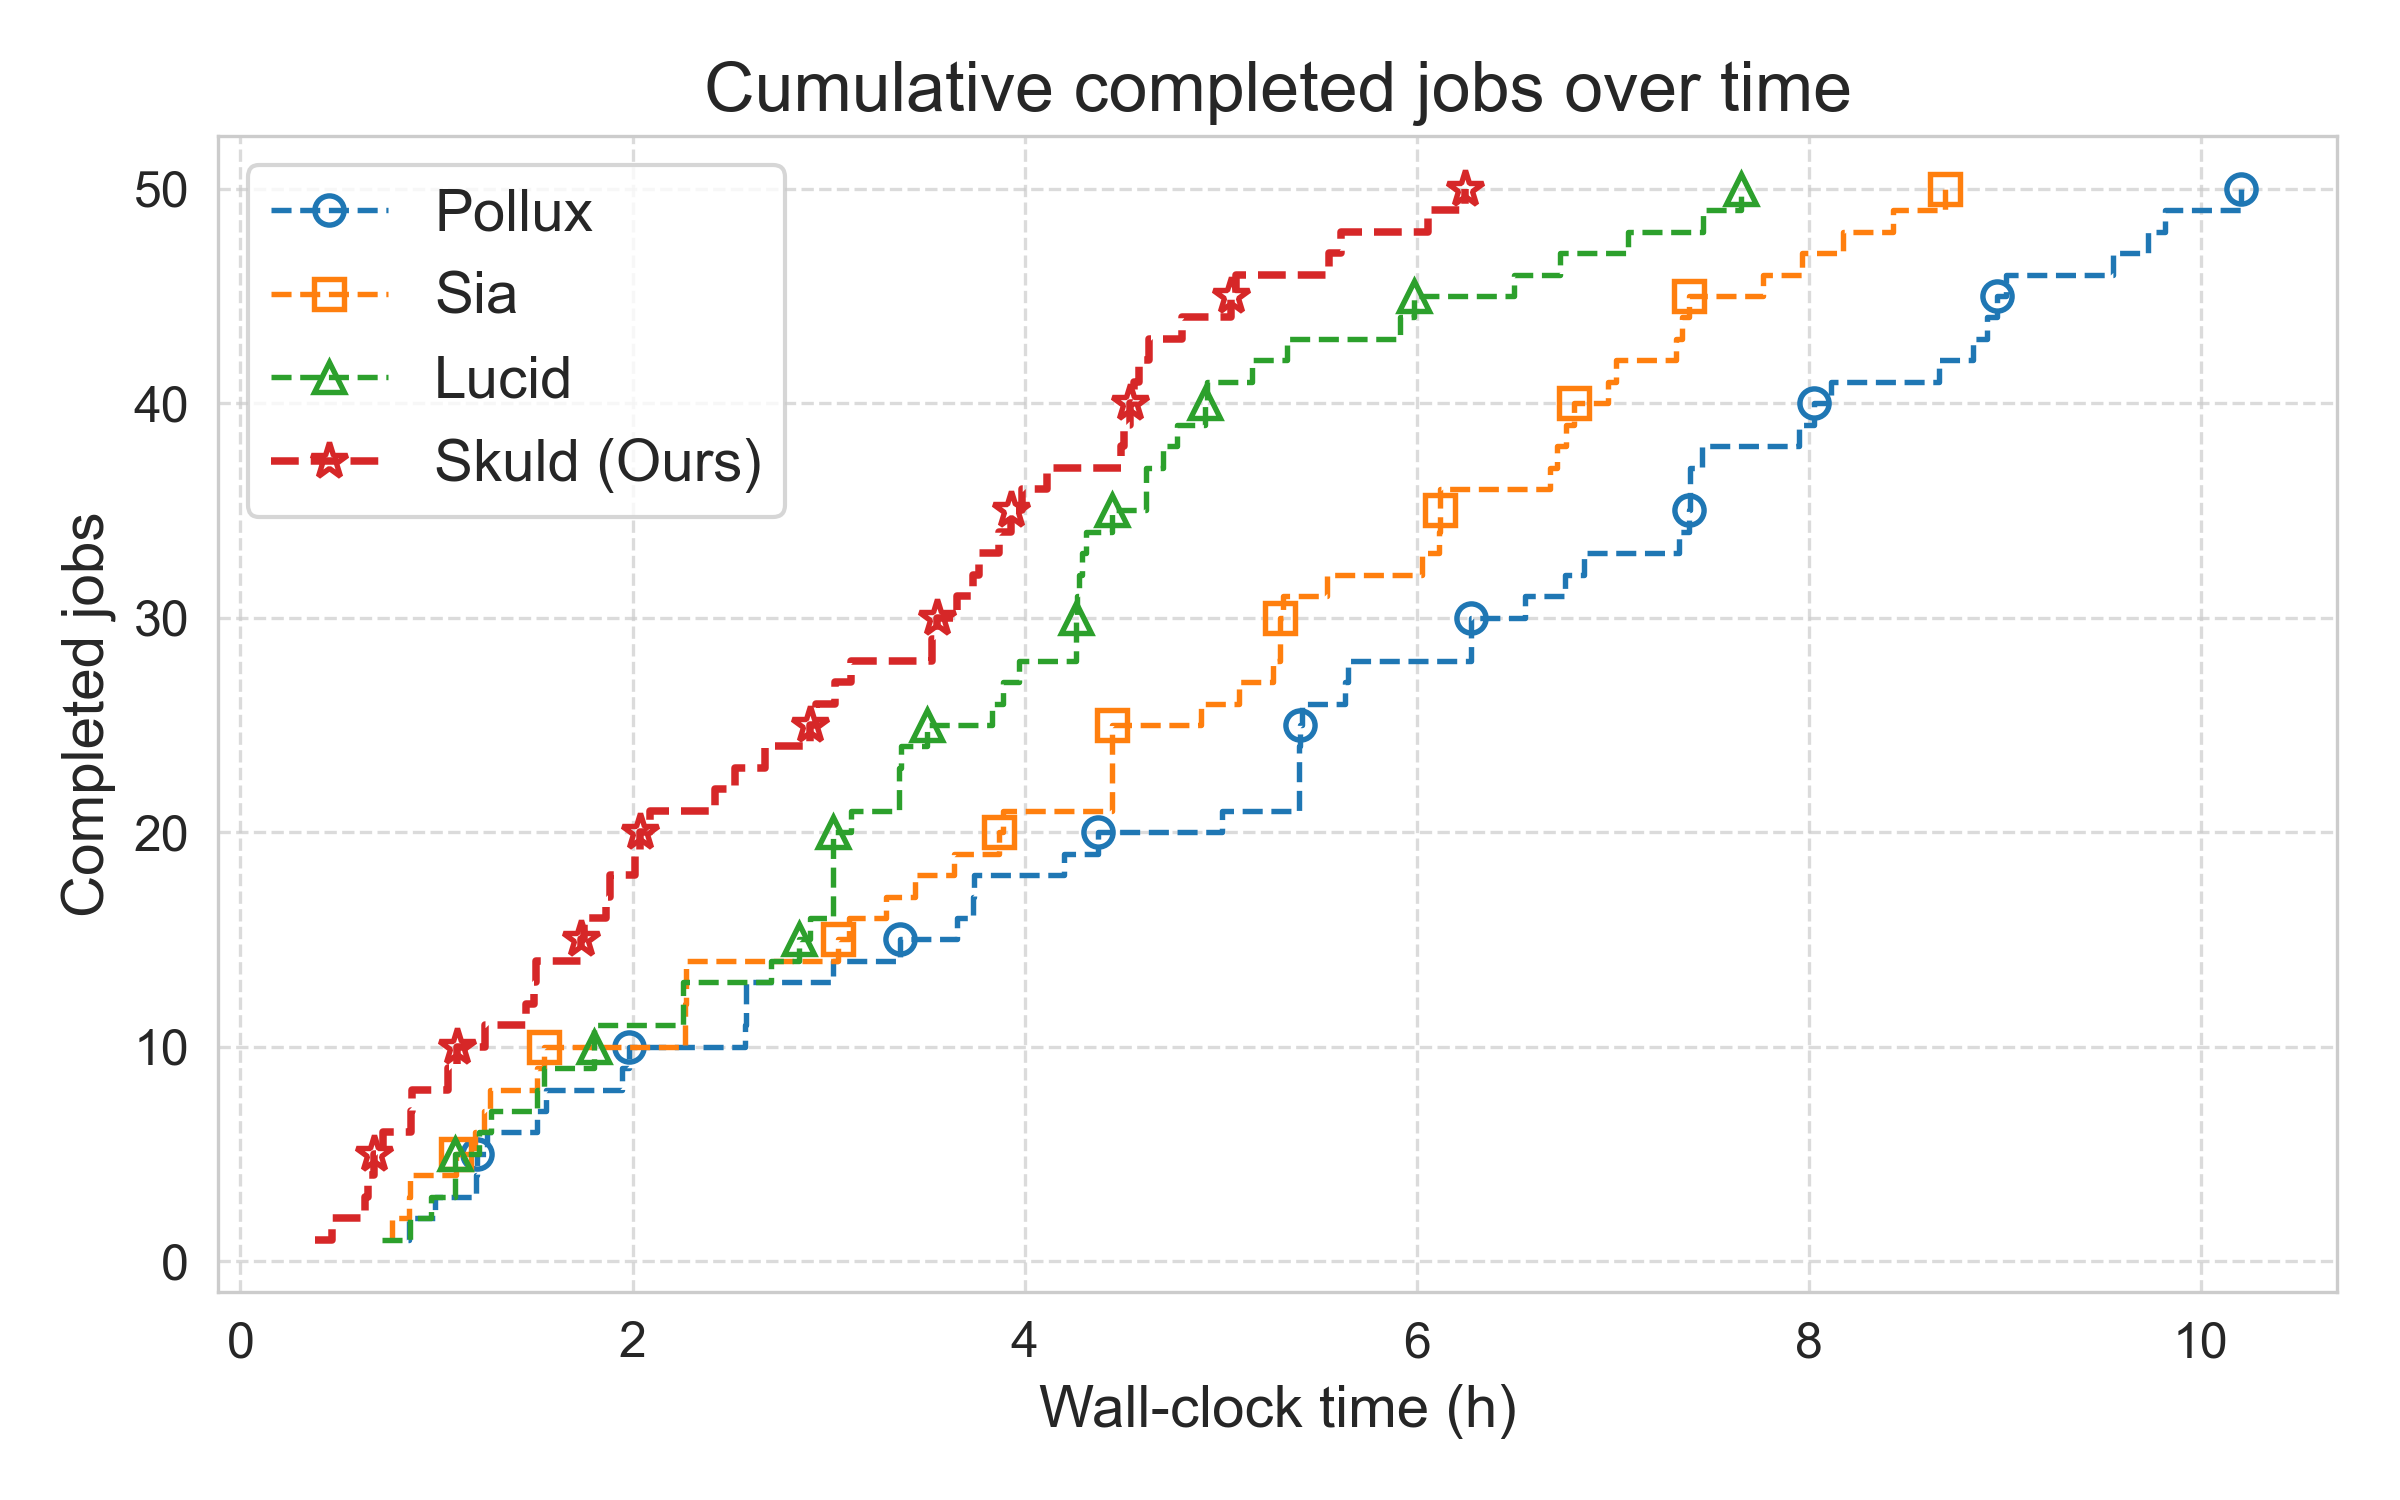
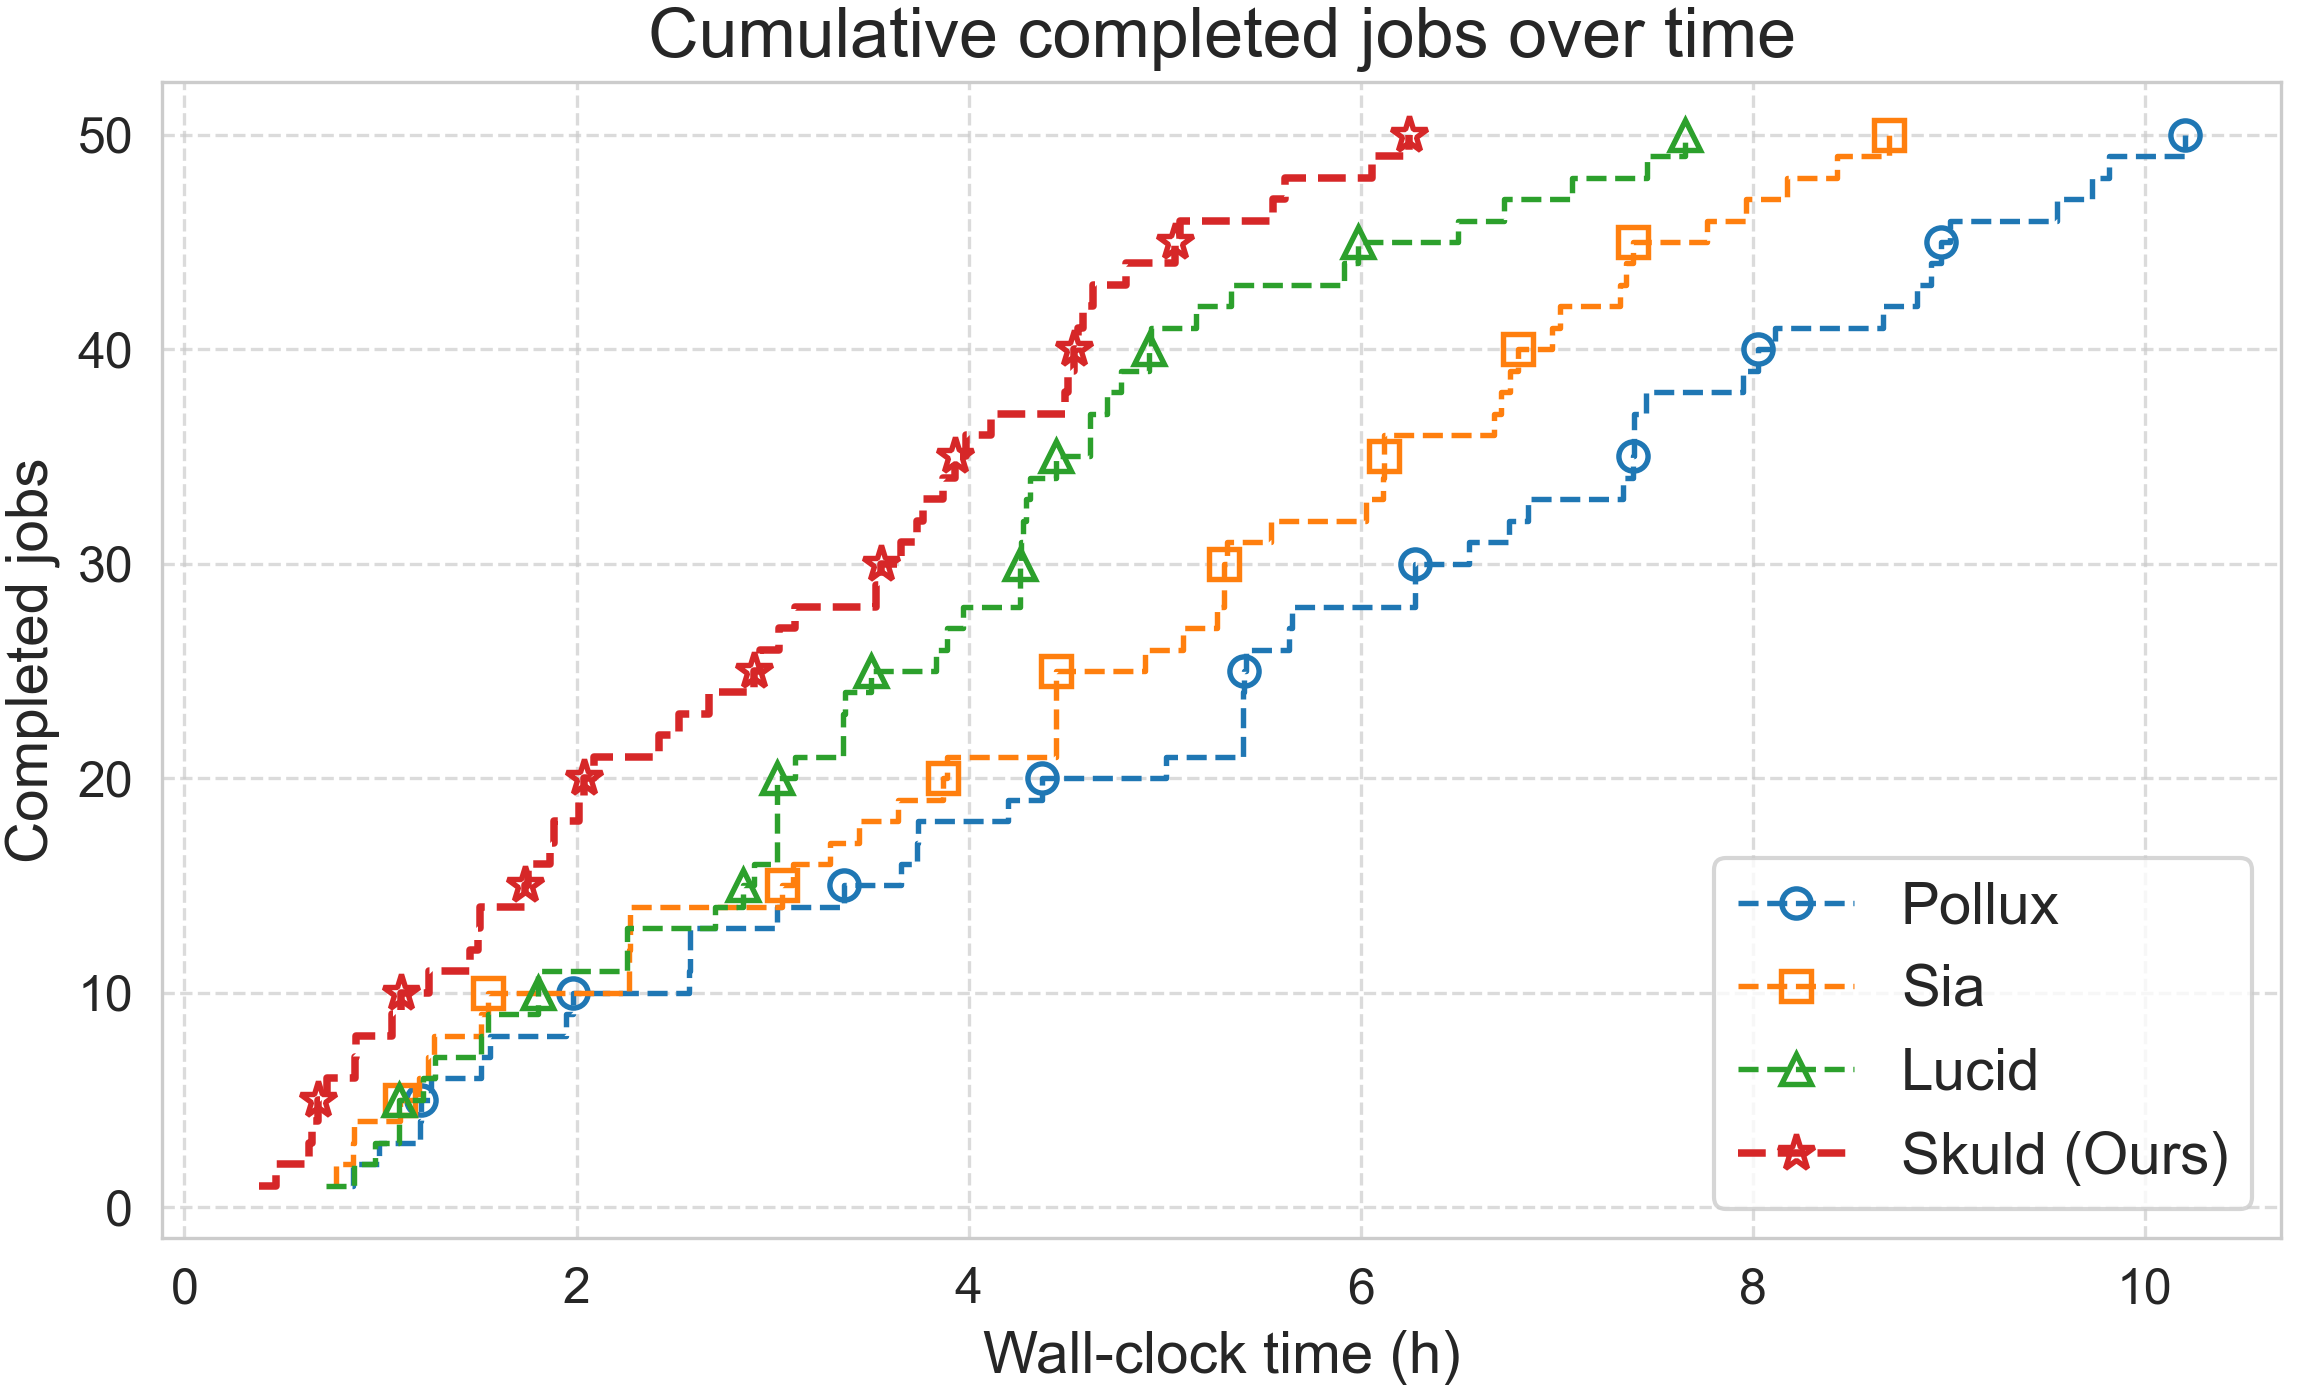
Figure 범례 위치 변경
Figure 범례 위치 변경

diff --git a/0. RESULT/Sun/S1_Figure 3 & Figure 4/viz_fig.py b/0. RESULT/Sun/S1_Figure 3 & Figure 4/viz_fig.py
@@ -224,7 +224,7 @@ for name, df in data_makespan.items():
 ax.set_xlabel("Wall-clock time (h)")
 ax.set_ylabel("Completed jobs")
 ax.set_title("Cumulative completed jobs over time")
-ax.legend()
+ax.legend(loc='lower right')
 ax.grid(True, which='both', linestyle='--', alpha=0.7)
 fig.tight_layout()
 fig.savefig("s1_makespan.png", dpi=300)
